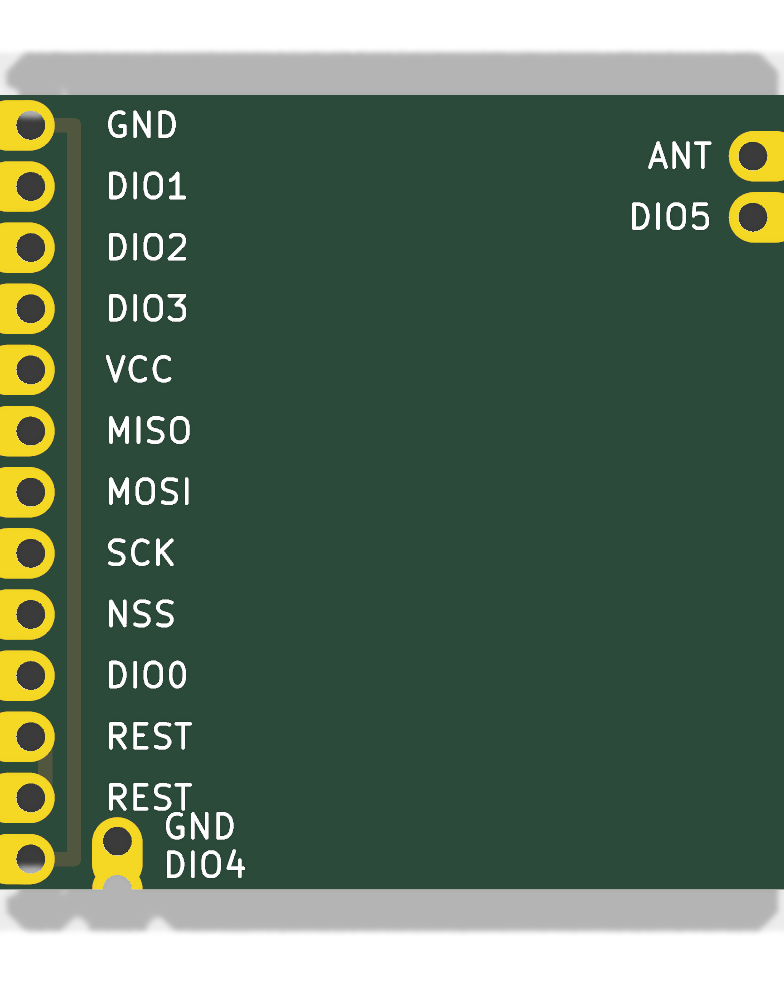
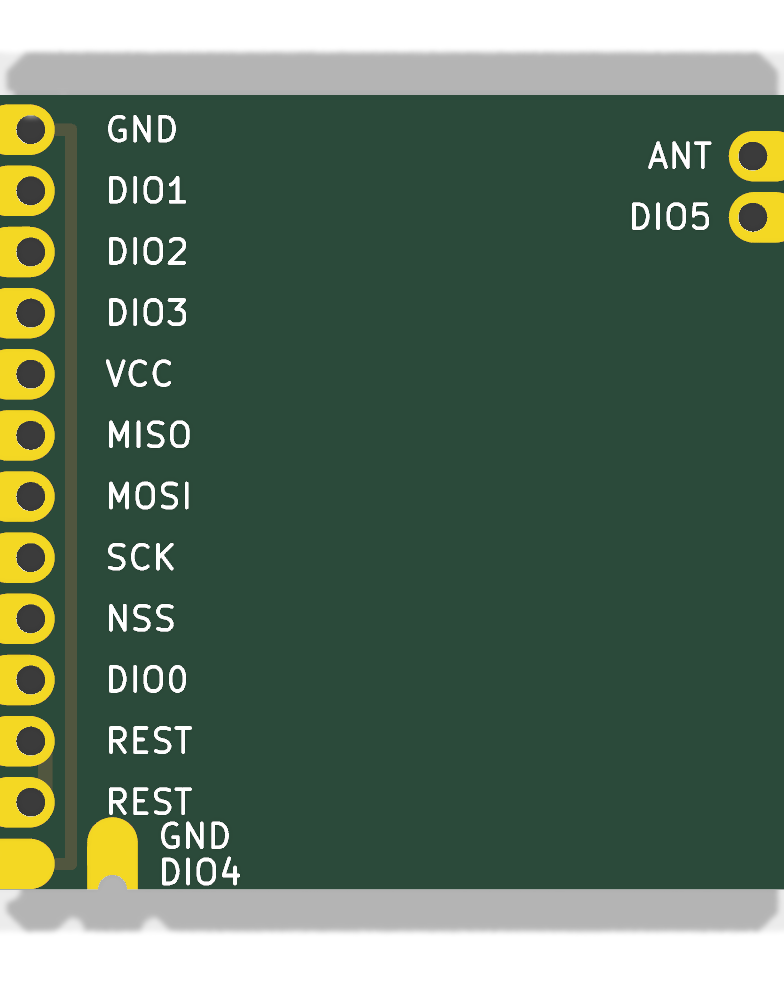
SX1278 module: corner pins 13 and 14 are castellation-only
Close-ups show 12 keyhole pads down the left edge, then a plain
castellation flush with the bottom-left corner (pin 13) and another on
the bottom edge (pin 14), neither with an inboard through-hole.  The
12-pad group starts 0.72 mm from the top edge, matching the photo and
leaving 0.2 mm between pad 12 and the corner pad.

Claude-Session: https://claude.ai/code/session_01JoGdh4Cg3VtTTDZi4gQuiN

Changed region(s): [[0.0, 0.0915, 0.3061, 0.9146]]

diff --git a/scripts/generate_sx1278.py b/scripts/generate_sx1278.py
@@ -12,10 +12,11 @@ extra pins.  No manufacturer drawing was found for this variant, so the
 geometry combines:
 
 * Seller PDF ("Module Size: 17mm x 16.5mm").
-* A perspective-rectified product photo: 13 castellated pads down one
-  16.5 mm edge at 1.27 mm pitch (measured 1.26), one pad around the corner
-  on the adjacent 17.0 mm edge, and two pads at 1.27 mm pitch near the top
-  of the opposite edge.
+* A perspective-rectified product photo: 12 keyhole pads down one 16.5 mm
+  edge at 1.27 mm pitch (measured 1.26), a castellation-only pad at the
+  bottom corner of that edge, another castellation-only pad around the
+  corner on the adjacent 17.0 mm edge, and two keyhole pads at 1.27 mm
+  pitch near the top of the opposite edge.
 * NiceRF LoRa127X mechanical drawing and close-up photos for the pad
   geometry of this family: keyhole pads 1.5 mm long at 1.27 mm pitch, each
   with a plated through-hole about 1.0 mm in from the edge and a half-hole
@@ -39,25 +40,35 @@ from kicadgen import Design, Footprint, Pad, Part, SymbolRef, Track, gr_rect, gr
 BOARD_W = 17.0  # top/bottom edges
 BOARD_H = 16.5  # left/right edges (the 13-pad edge)
 PITCH = 1.27
-N_LEFT = 13
-LEFT_FIRST_Y = (BOARD_H - (N_LEFT - 1) * PITCH) / 2  # pads centred on the edge: 0.63
-BOTTOM_PAD_X = 2.8  # pin 14, from the left edge (photo: 2.7 +/- 0.2)
+N_LEFT = 12  # keyhole pads on the left edge (pins 1-12)
+LEFT_FIRST_Y = 0.72  # pin 1 centre from the top edge (photo: 0.75; leaves 0.2 mm between pad 12 and the corner pad)
+CORNER_PAD_Y = BOARD_H - 0.53  # pin 13: castellation-only pad flush with the bottom-left corner
+BOTTOM_PAD_X = 2.7  # pin 14: castellation-only pad on the bottom edge (photo: 2.7 +/- 0.2)
 RIGHT_PAD_Y = (PITCH, 2 * PITCH)  # pins 16 (upper) and 15 (lower) from the top edge
 HOLE = 0.6  # through-hole and castellation half-hole diameter
 HOLE_IN = 1.0  # through-hole centre from the board edge
 PAD_W = 1.05  # along the edge (0.225 mm ring, 0.22 mm to the neighbour)
 PAD_IN = 1.5  # copper reaching into the board
+PAD_OUT = 0.5  # copper outside the edge for castellation-only pads (removed when routed)
 
 PIN_NAMES = ["GND", "DIO1", "DIO2", "DIO3", "VCC", "MISO", "MOSI", "SCK", "NSS", "DIO0", "REST", "REST", "GND", "DIO4", "DIO5", "ANT"]
 PROJECT = "sx1278-lora-module"
 
 
-def edge_pad(n: int, x: float, y: float, direction: str) -> list[Pad]:
-    """Keyhole pad on the board edge at (x, y): a through-hole HOLE_IN into
-    the board with oval copper running from the edge to PAD_IN, plus a
-    castellation half-hole centred on the edge.  direction = side of the
-    board the pad reaches into: 'right' (from the left edge), 'left', 'up'."""
+def edge_pad(n: int, x: float, y: float, direction: str, keyhole: bool = True) -> list[Pad]:
+    """Pad on the board edge at (x, y).  direction = side of the board the
+    pad reaches into: 'right' (from the left edge), 'left', 'up'.
+
+    keyhole=True: a through-hole HOLE_IN into the board with oval copper
+    running from the edge to PAD_IN, plus a castellation half-hole centred
+    on the edge.  keyhole=False: only the castellation half-hole, with oval
+    copper from PAD_OUT outside the edge to PAD_IN inside."""
     dx, dy = {"right": (1, 0), "left": (-1, 0), "up": (0, -1)}[direction]
+    if not keyhole:
+        length = PAD_IN + PAD_OUT
+        shift = length / 2 - PAD_OUT
+        size = (length, PAD_W) if dy == 0 else (PAD_W, length)
+        return [Pad(str(n), (x, y), size, "thru_hole", "oval", HOLE, (dx * shift, dy * shift), tag="edge")]
     shift = PAD_IN / 2 - HOLE_IN  # oval centre relative to the through-hole
     size = (PAD_IN, PAD_W) if dy == 0 else (PAD_W, PAD_IN)
     return [
@@ -70,12 +81,13 @@ def module_fp() -> Footprint:
     pads = []
     for i in range(N_LEFT):
         pads += edge_pad(i + 1, 0, LEFT_FIRST_Y + i * PITCH, "right")
-    pads += edge_pad(14, BOTTOM_PAD_X, BOARD_H, "up")
+    pads += edge_pad(13, 0, CORNER_PAD_Y, "right", keyhole=False)
+    pads += edge_pad(14, BOTTOM_PAD_X, BOARD_H, "up", keyhole=False)
     pads += edge_pad(15, BOARD_W, RIGHT_PAD_Y[1], "left")
     pads += edge_pad(16, BOARD_W, RIGHT_PAD_Y[0], "left")
     return Footprint(
         name="SX1278_Module_16pin_Castellated",
-        descr="16-pin castellated SX1278 LoRa module (PXL1276-D01 / NiceRF LoRa1278 derivative): 13 keyhole pads at 1.27 mm on the left edge, one on the bottom edge, two on the right edge; each has a 0.6 mm through-hole 1.0 mm in from the edge and a 0.6 mm half-hole on the edge. Origin at the top-left board corner; board edges must run through the castellation centres.",
+        descr="16-pin castellated SX1278 LoRa module (PXL1276-D01 / NiceRF LoRa1278 derivative): 12 keyhole pads at 1.27 mm on the left edge (0.6 mm through-hole 1.0 mm in from the edge plus a 0.6 mm half-hole on the edge), castellation-only pads at the bottom-left corner and on the bottom edge, and two keyhole pads on the right edge. Origin at the top-left board corner; board edges must run through the castellation centres.",
         tags="SX1278 LoRa module castellated 1.27mm",
         pads=pads,
         ref_pos=(BOARD_W / 2, BOARD_H / 2 + 2.5, 0),
@@ -101,15 +113,17 @@ def build() -> Design:
 
     # Nets shared by two pads: GND (pins 1 and 13) and the two REST pins.
     y = lambda pin: by + LEFT_FIRST_Y + (pin - 1) * PITCH  # noqa: E731
-    d.tracks.append(Track("GND", "F.Cu", 0.3, [(bx + PAD_IN - 0.2, y(1)), (bx + 1.9, y(1)), (bx + 1.9, y(13)), (bx + PAD_IN - 0.2, y(13))]))
+    # The vertical run passes between the pad copper (x <= 1.5) and pad 14 (x >= 2.175).
+    gx = bx + 1.84
+    d.tracks.append(Track("GND", "F.Cu", 0.25, [(bx + PAD_IN - 0.2, y(1)), (gx, y(1)), (gx, by + CORNER_PAD_Y), (bx + PAD_IN - 0.2, by + CORNER_PAD_Y)]))
     d.tracks.append(Track("REST", "F.Cu", 0.3, [(bx + PAD_IN - 0.2, y(11)), (bx + PAD_IN - 0.2, y(12))]))
 
     g = d.graphics
-    for i in range(N_LEFT - 1):
+    for i in range(N_LEFT):
         g.append(gr_text(f"l{i}", PIN_NAMES[i], bx + 2.5, by + LEFT_FIRST_Y + i * PITCH, "F.SilkS", 0.5, "left"))
     # Pin 13 (GND) and the corner pad 14 (DIO4) are labelled to the right of pad 14.
-    g.append(gr_text("l12", PIN_NAMES[12], bx + BOTTOM_PAD_X + 0.9, by + BOARD_H - 1.3, "F.SilkS", 0.5, "left"))
-    g.append(gr_text("l13", PIN_NAMES[13], bx + BOTTOM_PAD_X + 0.9, by + BOARD_H - 0.5, "F.SilkS", 0.5, "left"))
+    g.append(gr_text("l12", PIN_NAMES[12], bx + BOTTOM_PAD_X + 0.9, by + BOARD_H - 1.1, "F.SilkS", 0.5, "left"))
+    g.append(gr_text("l13", PIN_NAMES[13], bx + BOTTOM_PAD_X + 0.9, by + BOARD_H - 0.35, "F.SilkS", 0.5, "left"))
     g.append(gr_text("l14", PIN_NAMES[14], bx + BOARD_W - PAD_IN - 0.3, by + RIGHT_PAD_Y[1], "F.SilkS", 0.5, "right"))
     g.append(gr_text("l15", PIN_NAMES[15], bx + BOARD_W - PAD_IN - 0.3, by + RIGHT_PAD_Y[0], "F.SilkS", 0.5, "right"))
     g.append(gr_text("title", "SX1278 module form factor", bx + BOARD_W / 2 + 1.0, by + BOARD_H - 2.0, "F.Fab", 0.5))
